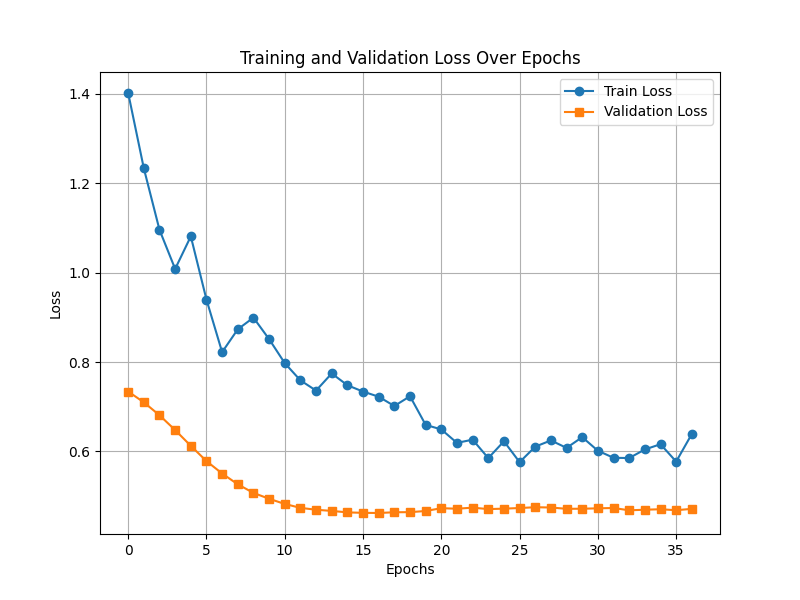
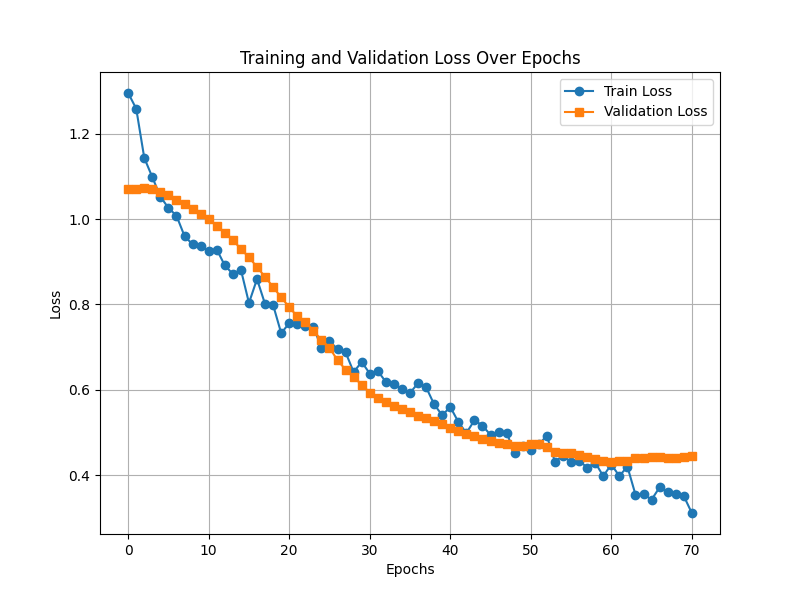
update recursion

diff --git a/exp/train_recursion.py b/exp/train_recursion.py
@@ -1,0 +1,129 @@
+import torch
+import torch.nn as nn
+import torch.optim as optim
+import sys
+import os
+import joblib
+import numpy as np
+from sklearn.model_selection import train_test_split
+import matplotlib.pyplot as plt
+sys.path.append(os.path.abspath(os.path.join(os.path.dirname(__file__), "..")))
+from data.datasets.data_loader import load_data
+from models.solar_time_model import MLPModel
+
+
+def evaluate(model, val_loader, criterion):
+    model.eval()
+    total_loss = 0
+    with torch.no_grad():
+        for batch_X, batch_y in val_loader:
+            predictions = model(batch_X)
+            loss = criterion(predictions, batch_y)
+            total_loss += loss.item()
+    return total_loss / len(val_loader)
+
+def evaluate_mse_mpe(model, X, y, y_scaler):
+    model.eval()
+    with torch.no_grad():
+        predictions = model(X)
+        y = y.cpu().numpy().reshape(-1, 1)
+        predictions = predictions.cpu().numpy().reshape(-1, 1)
+        y = np.clip(y_scaler.inverse_transform(y).flatten(), 0, None)
+        predictions = np.clip(y_scaler.inverse_transform(predictions).flatten(), 0, None)
+        mse = np.mean((predictions - y) ** 2)
+        nonzero_mask = y != 0
+        mpe = np.mean(((predictions - y) / y)[nonzero_mask]) * 100
+    return mse, mpe
+
+def train_and_tune(model, train_loader, val_loader, optimizer, criterion, scheduler, num_epochs=100, early_stopping_patience=10):
+    best_val_loss = float("inf")
+    no_improve_count = 0
+    train_losses, val_losses = [], []
+    
+    for epoch in range(num_epochs):
+        model.train()
+        epoch_loss = 0
+        
+        for batch_X, batch_y in train_loader:
+            optimizer.zero_grad()
+            predictions = model(batch_X)
+            loss = criterion(predictions, batch_y)
+            loss.backward()
+            torch.nn.utils.clip_grad_norm_(model.parameters(), max_norm=1.0)
+            optimizer.step()
+            epoch_loss += loss.item()
+        
+        train_loss = epoch_loss / len(train_loader)
+        val_loss = evaluate(model, val_loader, criterion)
+        train_losses.append(train_loss)
+        val_losses.append(val_loss)
+        
+        print(f"Epoch {epoch}: Train Loss = {train_loss:.4f}, Val Loss = {val_loss:.4f}")
+        
+        if val_loss < best_val_loss:
+            best_val_loss = val_loss
+            torch.save(model.state_dict(), "checkpoints/best_model.pth")
+            no_improve_count = 0
+        else:
+            no_improve_count += 1
+        
+        if no_improve_count >= early_stopping_patience:
+            print("Early stopping triggered.")
+            break
+        
+        scheduler.step(val_loss)
+    
+    return best_val_loss, train_losses, val_losses
+
+def main():
+    os.makedirs("checkpoints", exist_ok=True)
+    X, y, X_scaler, y_scaler = load_data()
+    X_train, X_val, y_train, y_val = train_test_split(X, y, test_size=0.3, random_state=42, shuffle=False)
+    
+    train_dataset = torch.utils.data.TensorDataset(X_train, y_train)
+    val_dataset = torch.utils.data.TensorDataset(X_val, y_val)
+    train_loader = torch.utils.data.DataLoader(train_dataset, batch_size=128, shuffle=True)
+    val_loader = torch.utils.data.DataLoader(val_dataset, batch_size=128, shuffle=False)
+    
+    best_overall_loss = float("inf")
+    best_hyperparams = {}
+    best_train_losses, best_val_losses = [], []
+    
+    for lr in [1e-3, 5e-4, 1e-4]:
+        for weight_decay in [1e-3, 1e-4, 1e-5]:
+            print(f"Training with lr={lr}, weight_decay={weight_decay}")
+            
+            model = MLPModel(input_dim=X.shape[1])
+            criterion = nn.MSELoss()
+            optimizer = optim.AdamW(model.parameters(), lr=lr, weight_decay=weight_decay)
+            scheduler = optim.lr_scheduler.ReduceLROnPlateau(optimizer, mode="min", factor=0.5, patience=3, verbose=True)
+            
+            val_loss, train_losses, val_losses = train_and_tune(model, train_loader, val_loader, optimizer, criterion, scheduler)
+            
+            if val_loss < best_overall_loss:
+                best_overall_loss = val_loss
+                best_hyperparams = {"lr": lr, "weight_decay": weight_decay}
+                best_train_losses, best_val_losses = train_losses, val_losses
+    
+    print(f"Best Hyperparameters: {best_hyperparams}, Best Validation Loss: {best_overall_loss:.4f}")
+    
+    model.load_state_dict(torch.load("checkpoints/best_model.pth"))
+    mse, mpe = evaluate_mse_mpe(model, X_val, y_val, y_scaler)
+    print(f"Final Evaluation: MSE = {mse:.4f}, MPE = {mpe:.2f}%")
+    
+    plt.figure(figsize=(8, 6))
+    plt.plot(range(len(best_train_losses)), best_train_losses, label="Train Loss", marker="o", linestyle="-")
+    plt.plot(range(len(best_val_losses)), best_val_losses, label="Validation Loss", marker="s", linestyle="-")
+    plt.xlabel("Epochs")
+    plt.ylabel("Loss")
+    plt.title("Training and Validation Loss Over Epochs")
+    plt.legend()
+    plt.grid()
+    plt.savefig("checkpoints/loss_curve.png")
+    plt.show()
+    
+    joblib.dump(y_scaler, "checkpoints/y_scaler.pkl")
+    print("Training and hyperparameter tuning complete.")
+    
+if __name__ == "__main__":
+    main()
